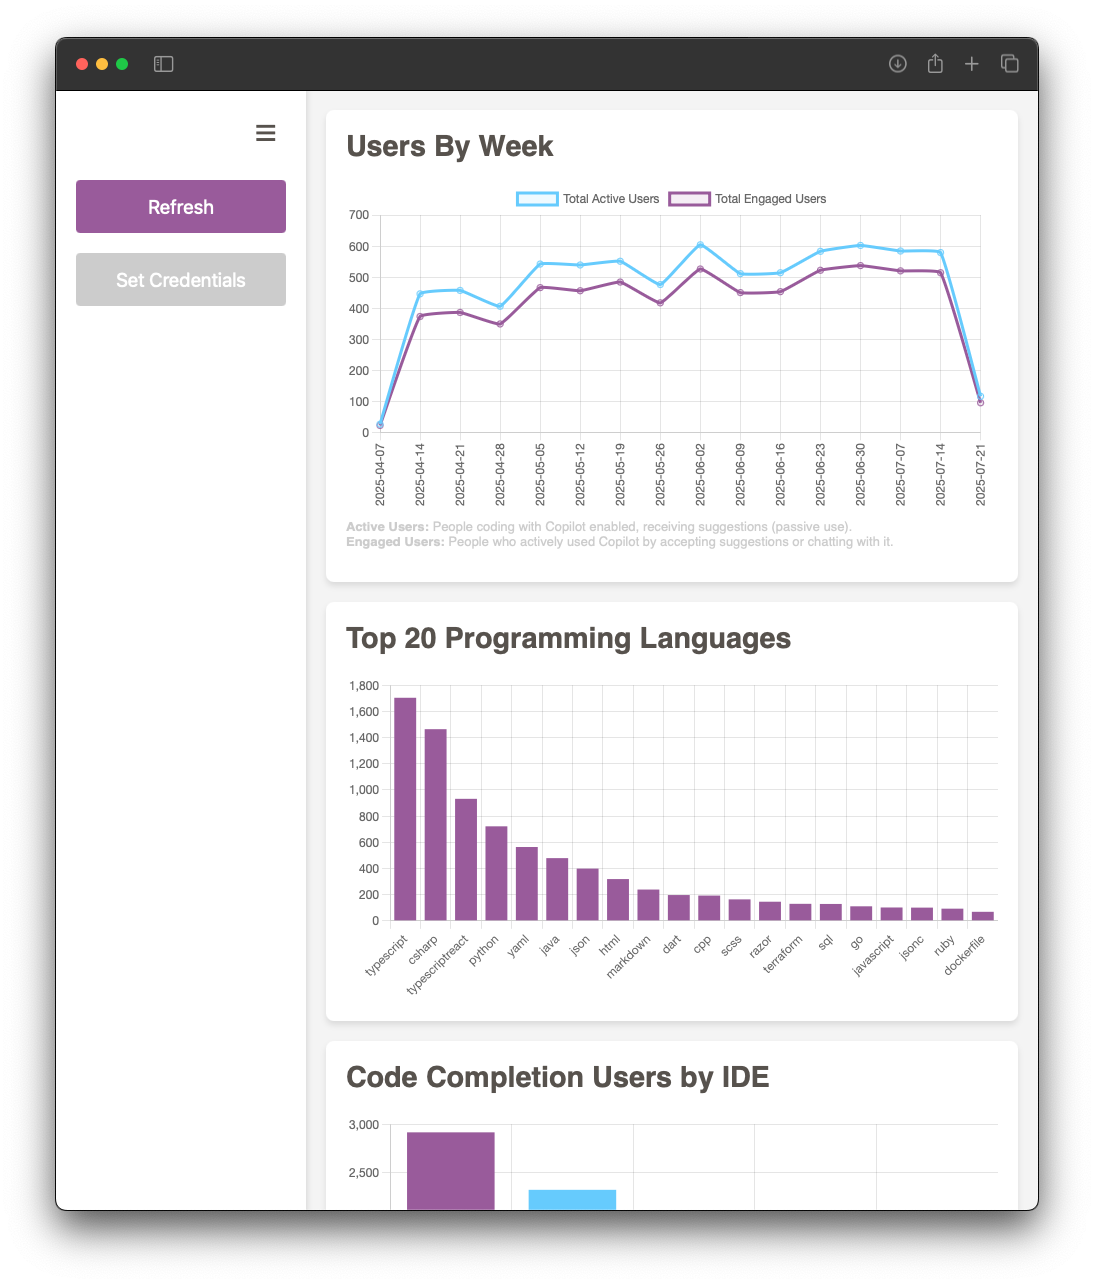
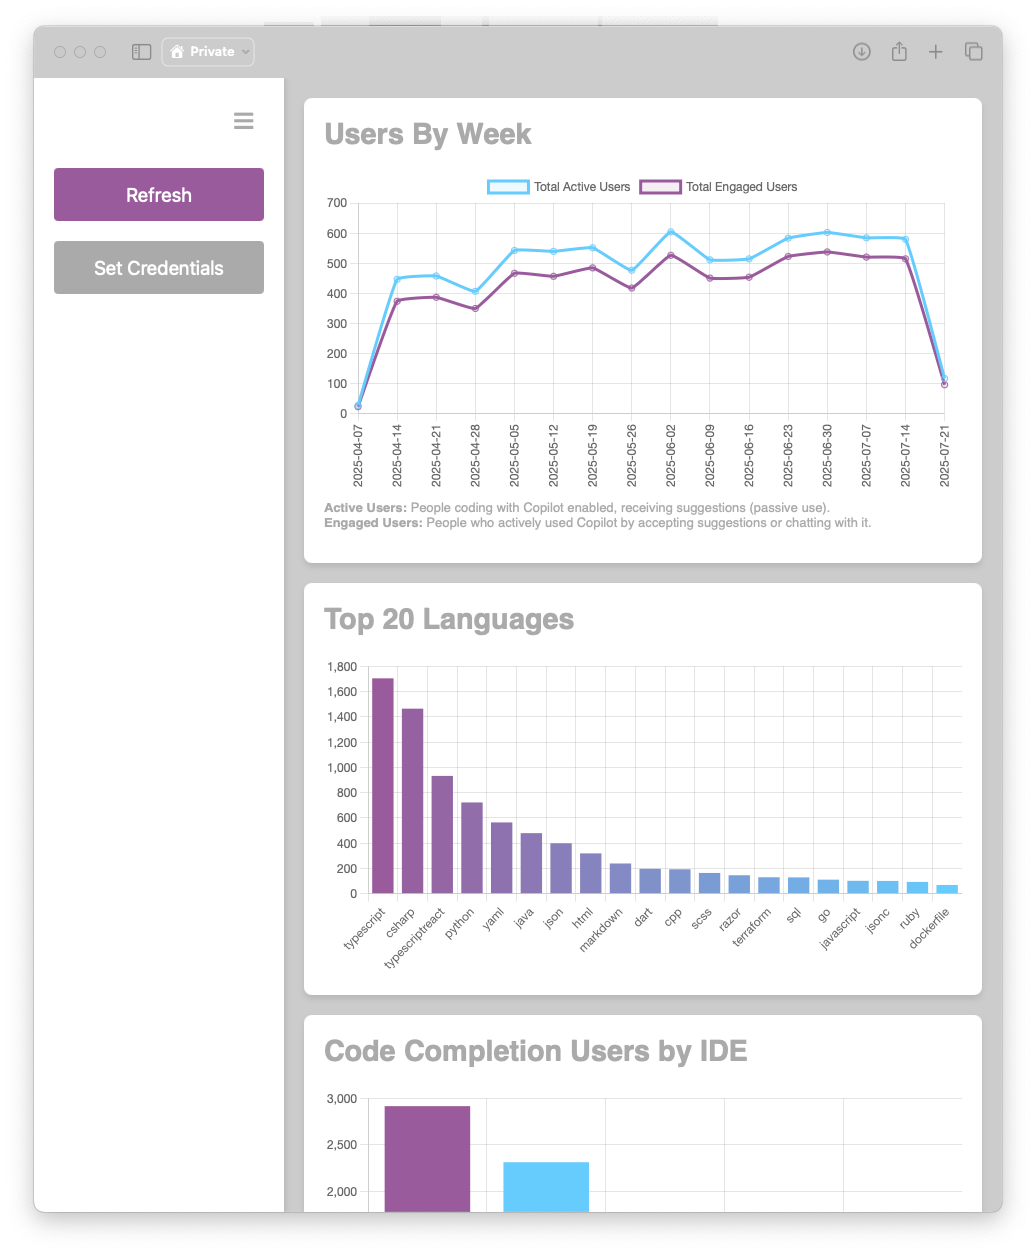
Apply gradient to second chart and update screenshot

Changed region(s): [[0.0309, 0.0, 0.9884, 0.9952], [0.4015, 0.5909, 0.4324, 0.622]]

diff --git a/webpage/script.js b/webpage/script.js
@@ -339,6 +339,32 @@ function fetchData() {
       const langLabels = sortedLanguages.map(([name]) => name);
       const langData = sortedLanguages.map(([, sum]) => sum);
 
+      // Create gradient colors from purple to blue
+      function interpolateColor(startColor, endColor, factor) {
+        const start = {
+          r: parseInt(startColor.slice(1, 3), 16),
+          g: parseInt(startColor.slice(3, 5), 16),
+          b: parseInt(startColor.slice(5, 7), 16)
+        };
+        const end = {
+          r: parseInt(endColor.slice(1, 3), 16),
+          g: parseInt(endColor.slice(3, 5), 16),
+          b: parseInt(endColor.slice(5, 7), 16)
+        };
+        
+        const r = Math.round(start.r + (end.r - start.r) * factor);
+        const g = Math.round(start.g + (end.g - start.g) * factor);
+        const b = Math.round(start.b + (end.b - start.b) * factor);
+        
+        return `#${r.toString(16).padStart(2, '0')}${g.toString(16).padStart(2, '0')}${b.toString(16).padStart(2, '0')}`;
+      }
+
+      const gradientColors = [];
+      for (let i = 0; i < langLabels.length; i++) {
+        const factor = langLabels.length > 1 ? i / (langLabels.length - 1) : 0;
+        gradientColors.push(interpolateColor('#985B9C', '#66CCFF', factor));
+      }
+
       // Process IDE data
       const ideData = processIdeData(data);
       createIdeCharts(ideData);
@@ -356,7 +382,7 @@ function fetchData() {
           datasets: [{
             label: 'Engaged Users',
             data: langData,
-            backgroundColor: '#985B9C'
+            backgroundColor: gradientColors
           }]
         },
         options: {
